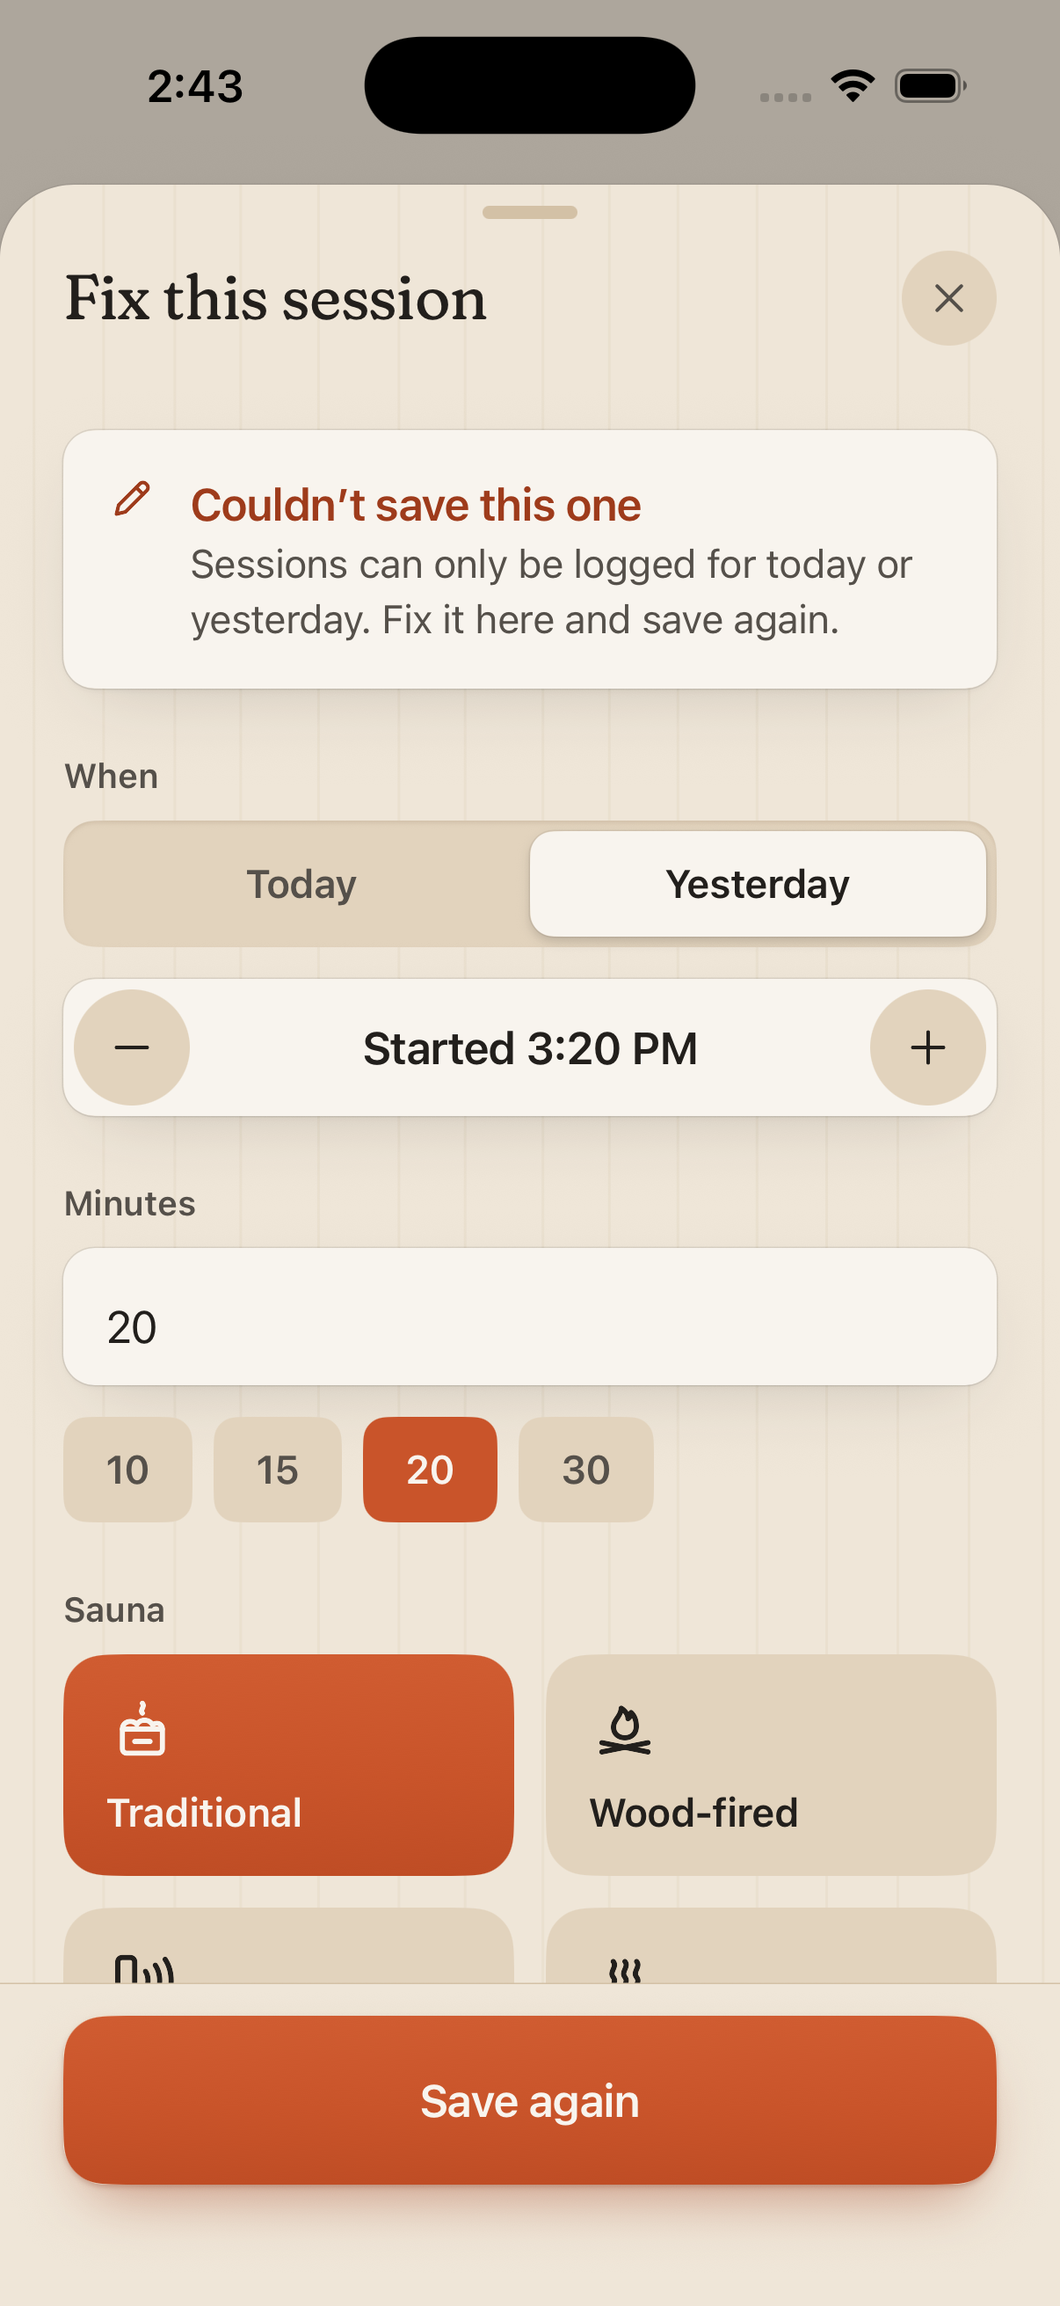
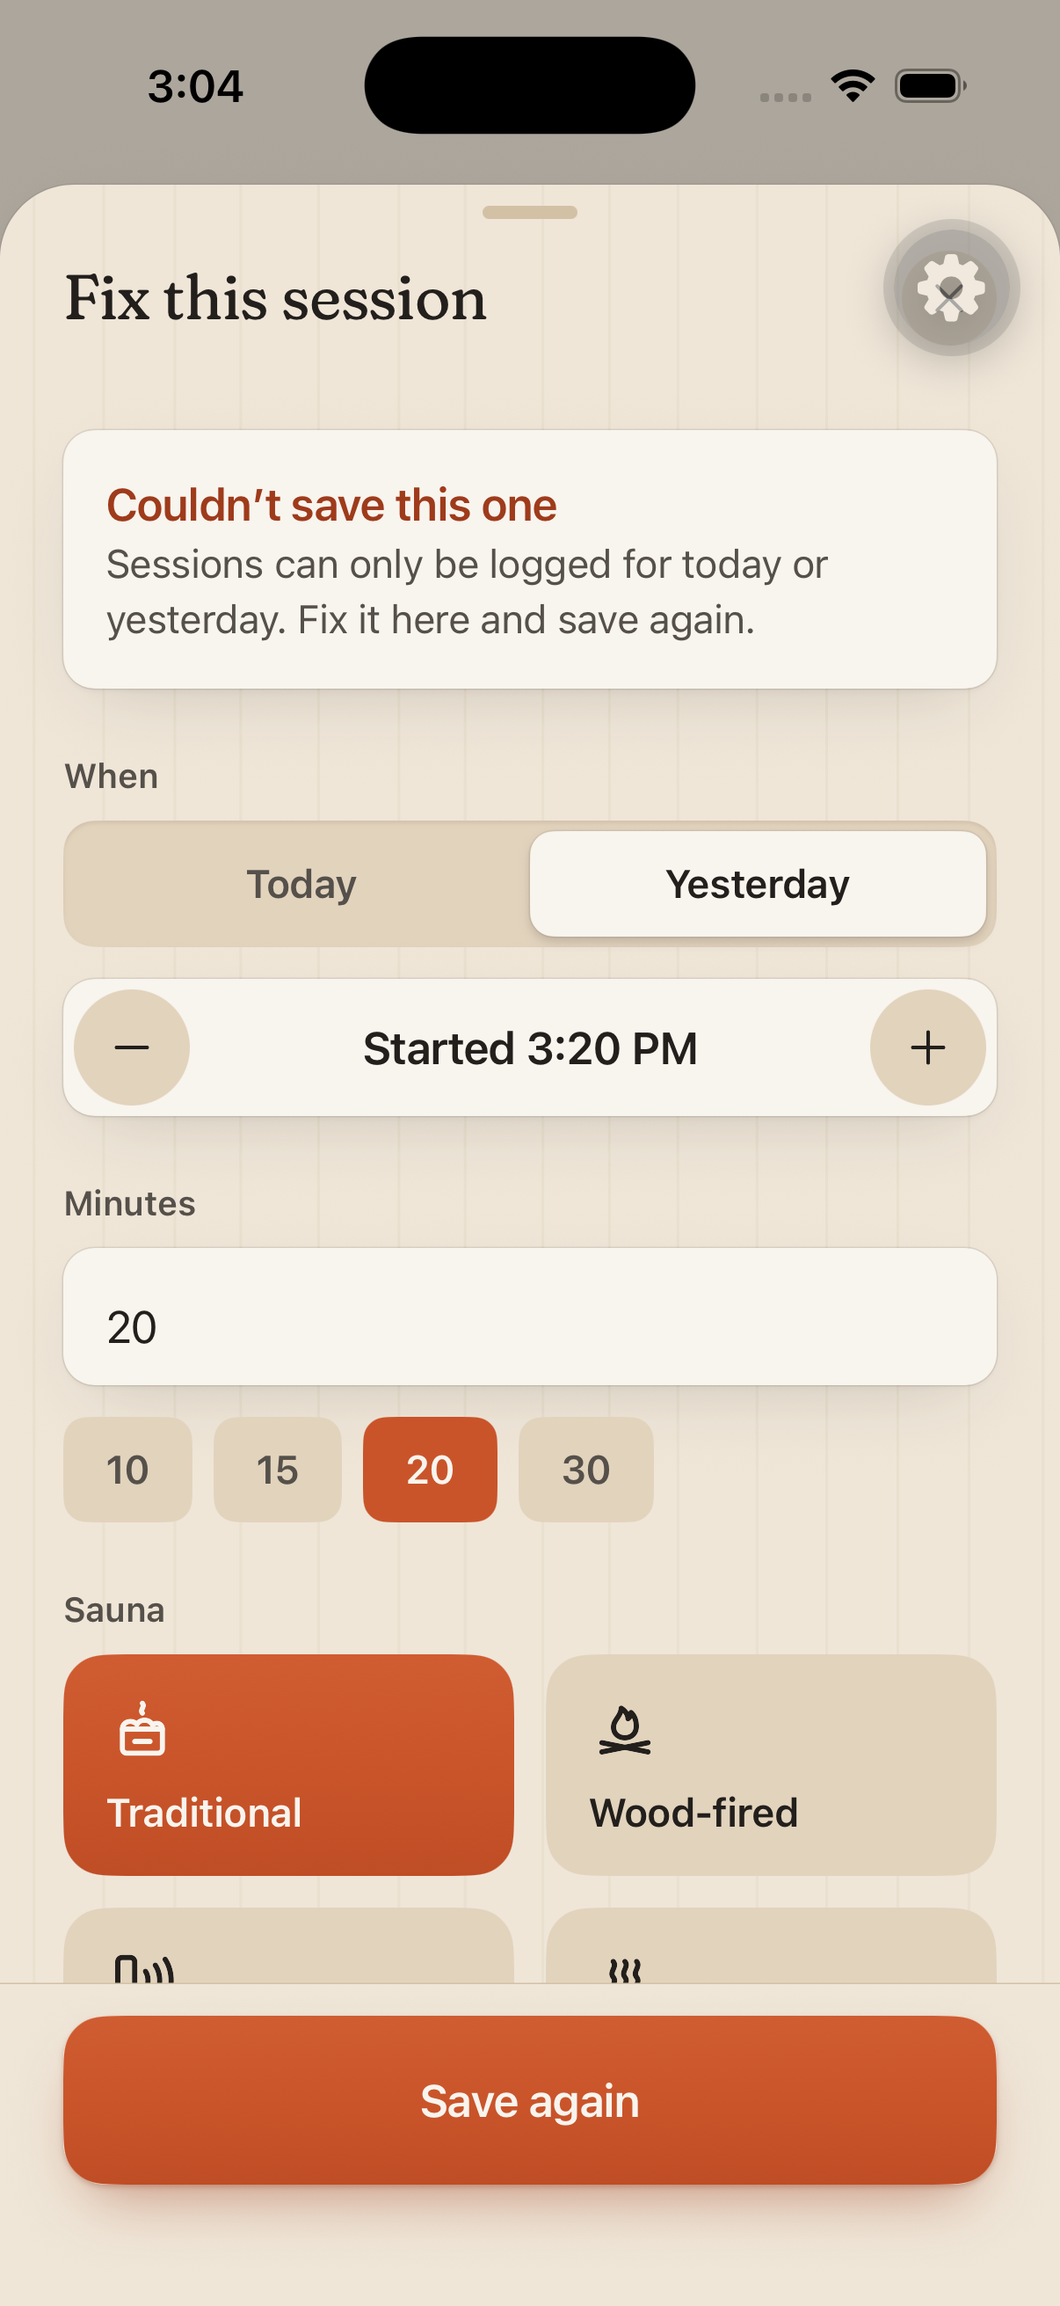
M8: the timer and the log form

Changed region(s): [[0.092, 0.1854, 0.7977, 0.278], [0.8284, 0.0927, 0.9818, 0.1545], [0.1534, 0.0309, 0.2454, 0.0618]]

diff --git a/src/theme/__tests__/theme.test.ts b/src/theme/__tests__/theme.test.ts
@@ -38,6 +38,14 @@ describe('motion', () => {
     expect(t).toBeGreaterThan(120);
     expect(t).toBeLessThan(300);
   });
+
+  it('times the overdamped door spring to when it is within 1% of the screen', () => {
+    // springs.morph is overdamped (damping 26 on stiffness 150): the old closed
+    // form said 307 ms, half the real arrival.
+    const t = springTouchdownMs(springs.morph);
+    expect(t).toBeGreaterThan(550);
+    expect(t).toBeLessThan(700);
+  });
 });
 
 describe('the moment summary', () => {

diff --git a/docs/saunafam/PROGRESS.md b/docs/saunafam/PROGRESS.md
@@ -122,6 +122,7 @@ Today, Week, Feed and Me rendered with no console errors.
 - `App.tsx` still says "This build can't reach Arro" (M12).
 | M6 | done (branch `saunafam/design`) | `design/brand/brand-sheet.png`, `design/screenshots/saunafam/design-sheet-1.png` to `-6.png` and `design-sheet-room.png`, `node scripts/check-contrast.mjs`, `src/theme/__tests__/theme.test.ts` | Löyly tokens, type, motion, haptics, components, Design sheet. See `docs/saunafam/DESIGN-SYSTEM.md` and M6/M7 notes below |
 | M7 | done (branch `saunafam/design`) | `design/brand/icon-explorations.png`, `design/brand/icon-sizes.png`, `design/recordings/saunafam/splash-cold.mov`, `design/screenshots/saunafam/splash-1.png` to `-3.png`, `splash-reduce-motion.mov` | Icon, wordmark, asset pipeline, native splash, AnimatedSplash |
+| M8 | done (branch `saunafam/timer`) | `design/screenshots/saunafam/timer-*.png`, `log-form*.png`; `design/recordings/saunafam/timer-start.mov`, `timer-finish.mov`, `timer-loyly.mov`, `timer-round.mov`, `timer-reduce-motion.mov`, `timer-background.mov`; `src/state/__tests__/logForm.test.ts`, `timerRoom.test.ts`, `sessionPhoto.test.ts` | Timer room ("the door closes"), log sheet, StartSessionButton, TimerBar. See M8 below |
 
 ## M0 baseline (untouched main, b68cd61)
 
@@ -600,3 +601,114 @@ Unverified or open:
   screen that uses them.
 - The tinted icon is a grayscale guess at Apple's guidance; it wasn't seen in
   iOS's tinted home screen mode.
+
+## M8: the timer and the log form
+
+Built on branch `saunafam/timer` (worktree `/tmp/luna-arro/wt-timer`).
+
+**Checks:** typecheck clean; Jest 17 suites, 235 tests (logForm 19, timerRoom
+8, sessionPhoto 3, theme 8 with the new overdamped spring test); lint clean in
+every file M8 touched; `check-design` clean in them; `check-contrast` 32 of 32.
+
+**What's in it**
+- `src/screens/TimerScreen.tsx`: the room. The door morphs on `springs.morph`
+  from the frame it was opened from (the Start button, ember; the timer bar,
+  char), ember crossfading to char over 800 ms, the glow rising over 1.4 s, the
+  medium haptic at the spring's touchdown (616 ms). Numerals (FixedDigits),
+  caps lines, the dotted ember arc (`TimerArc`), "Time to cool off at 7:27 PM",
+  glow-breathe and a warmer step every 5 minutes, a light tick and a VoiceOver
+  line at each 5-minute mark, the target and type panel (tap the line under the
+  numerals), Throw löyly (`LoylyBurst`), Add a round with the lake tint, Done,
+  Cancel behind a designed confirm, the 3-hour prompt, and a "Back to Today"
+  mark top left (the timer keeps running).
+- `src/screens/LogSessionScreen.tsx`: `LogSessionSheet`, a designed sheet used
+  by the `LogSession` route and, in place, by the timer. Logic in
+  `src/state/logForm.ts` (prefill from the timer or a draft, validation, °F to
+  °C, the start time). Photos in `src/state/sessionPhoto.ts`.
+- `src/components/StartSessionButton.tsx`, `TimerBar.tsx` for M9; the stand-in
+  Today uses both. Other new components are listed in DESIGN-SYSTEM.md.
+- Routes: `Timer` (`{ origin?, started?, startAt? }`) and `LogSession` are
+  transparent modals with no stack animation; each draws its own entrance.
+- Dev only: `src/dev/DevCapture.tsx` drives captures from simctl links or a
+  local command queue (`EXPO_PUBLIC_DEV_CAPTURE`), and `app.devSetTimer`. Both
+  do nothing in a release build. `dev/onboard` skips onboarding with no server.
+
+**Fixed from the recordings**
+- The door started about 700 ms after the tap and skipped its first frames: the
+  room's first draw (a full-screen SVG blur for the steam, and blurred halos on
+  the arc) blocked the main thread. The steam is now a PNG drawn ahead of time
+  (`scripts/render-room-steam.mjs`), the halos are radial gradients, and the
+  door waits for the route's `transitionEnd` before moving. Tap to motion is
+  now about 130 ms in a dev build.
+- Starting the timer re-rendered Today under the door (the bar appeared, the
+  button relabeled, the door's frame no longer matched). The timer now starts
+  from the tap's time but is committed when the door lands.
+- The room's contents faded in while the door was still small, over Today.
+  They now wait for the door to land.
+- The status bar turned light only after the door landed, so it sat dark on
+  char for a moment, and changing it re-rendered the room mid-move. It's set
+  imperatively (`StatusBar.setStyle`) when the door covers the top, and back
+  when the room lightens.
+- An overdamped spring stopped a hair short and left a sliver of Today at the
+  edge: the door snaps to the exact frame when its spring rests.
+- Done to sheet stalled for about 190 ms while the sheet mounted, so the room's
+  fade jumped. The sheet now mounts parked below the screen while the glow
+  cools, and its lower fields mount after it's up.
+- The room lightened faster than the sheet rose (settle curve); it now uses
+  the even `leave` ease.
+- Throw löyly's drawn wisps read as thin lines, then as gray ribbons. They're
+  now a blurred wisp image that rises, billows and fades.
+- The phase words ("Cooling off", "Back in the heat") snapped; they fade in.
+- While cooling off the numerals didn't dim (an animated opacity overrode the
+  style); they dim to 72% now.
+- At the largest Dynamic Type size the room overlapped itself and the löyly
+  label clipped. Large text gets a scrolling room with no arc, and
+  `SolidButton` grows instead of clipping.
+
+**Decisions**
+- D8.1 Done finishes the timer at once (clears it, cancels its notifications)
+  and the log sheet opens over the lightening room. Closing that sheet asks
+  "Throw this session away?", since nothing else has the time.
+- D8.2 The sheet is birch, not steam, so the steam wells and tiles read on it.
+- D8.3 "Log it" on the 3-hour prompt finishes the timer and asks for the real
+  minutes (the field starts empty with a hint), keeping the start time.
+- D8.4 The 5-minute tick fires only when the mark goes up by one while you're
+  watching; coming back from the background just catches up, silently.
+- D8.5 Saving is optimistic: the sheet closes at once and `haptics.save` fires
+  as it finishes closing. "Jo already logged this one" arrives afterwards as
+  `app.notice` (new `app.showNotice`), for Today to show.
+- D8.6 The löyly haptic fires one stagger (90 ms) after the tap, as the first
+  wisp shows.
+- D8.7 The 4:3 crop is done in `sessionPhoto.ts`: SDK 57's picker crops only
+  to a square on iOS (`aspect` is Android only). Note `photos.ts` still passes
+  `aspect: [4, 3]` for workouts, which iOS ignores.
+- D8.8 `app.json` gets a camera permission string ("Saunafam uses the camera
+  only when you take a photo for a session..."). The shared dev client was
+  built before it, so the camera needs the next native build.
+- D8.9 A local-only session (no server) stores its timer too, so the timer
+  survives being killed in a dev build. Prototype preview scenarios still keep
+  theirs in memory.
+- D8.10 "Sat with someone?" lists joined members; invited ones show grayed out with
+  "Hasn't joined yet"; people on a break can be picked. The preview family has
+  only Maya and Jo, so `log-form-shared-3.png` shows three people in the
+  session (Sam, Maya, Jo), not three picked; the 3-person cap is unit tested.
+- D8.11 The numerals stay at the type scale's 96 pt (the mockup is about 91 pt
+  at this width); FixedDigits' even digit boxes make them a little wider.
+- D8.12 Nothing about Plus appears in the timer or the form.
+
+**Not done or not verified**
+- Haptics and VoiceOver announcements can't be felt or heard on the simulator;
+  their timing is in code and tests only. No Perf Monitor reading was taken,
+  and frame timing from `simctl recordVideo` was noisy with three simulators
+  running: the door and the finish show steady 16 to 25 ms frames in the
+  cleaner runs, with occasional 40 ms gaps.
+- The camera was not tried (no camera on the simulator, and no permission
+  string in the current dev client). The library picker was not tried either.
+- `timer-background.mov` is two recordings joined: the 2 minutes in Settings
+  are cut out. Coming back shows iOS's snapshot from leaving (0:04) for a frame
+  before 2:09.
+- Screenshots after the dev client's relaunch show its floating Tools button
+  (dev chrome).
+- `design/screenshots/saunafam/INDEX.md` lines for these screens are left for
+  M9, which owns that file.
+

diff --git a/design/copy/app-copy.md b/design/copy/app-copy.md
@@ -142,30 +142,74 @@ Section 3, "Today".
 
 ## Timer
 
-Sections 2 ("Timer: the door closes") and 3 ("Timer").
+Sections 2 ("Timer: the door closes") and 3 ("Timer"). Built in M8
+(`src/screens/TimerScreen.tsx`, words in `src/state/timerRoom.ts`).
 
-- Under the numerals: "TRADITIONAL · 15 MIN"
-- **Throw löyly**
-- **Add a round**
-- While paused: "Cooling off"
-- **Done**
-- **Cancel** (always behind a confirm). _to write: the confirm_
-- Target chips: 10, 15, 20, 30 minutes
-- Back after 3 hours: "Still going? It's been 3 hours", with **Log it**, **Keep going**, **Discard**
-- Sign out with a timer running: a confirm. _to write_
+On Today (M8 components that M9 places):
+
+- **Start a session** (hint for VoiceOver: "Starts the sauna timer")
+- With a timer running, the same button: **Back to the timer** ("Opens the timer that's running")
+- The slim bar: "In the heat · 12:04", "Cooling off · 12:04" (VoiceOver: "In the heat, 12 minutes 4 seconds", hint "Opens the timer")
+
+In the room:
+
+- Top line, small caps: "IN THE HEAT · ROUND 1", while cooling off "COOLING OFF · ROUND 1 DONE"
+- Under the numerals, small caps, tappable: "TRADITIONAL · 15 MIN" (VoiceOver: "Traditional · 15 min. Change the target or sauna type")
+- The numerals for VoiceOver: "12 minutes 40 seconds in the heat", while cooling off "..., paused while you cool off"
+- Every 5 minutes, VoiceOver says: "5 minutes", "10 minutes", and so on
+- Above Throw löyly: "Time to cool off at 7:27 PM"; past the target "That's your 15 minutes. Cool off when you're ready."; cooling off "Cooling off. Go back in when you're ready."
+- **Throw löyly** (hint: "A burst of steam. Nothing is saved.")
+- **Add a round** (hint: "Pauses the heat clock while you cool off"); while cooling off **Back in the heat** ("Starts the next round")
+- **Done** (hint: "Opens the log form, filled in")
+- **Cancel**
+- Top left, an icon only: "Back to Today" (hint: "The timer keeps running")
+- The target and type panel: small caps "TARGET" with **10 min**, **15 min**, **20 min**, **30 min**; "SAUNA" with the seven types; **Done**
+- Cancel confirm: "Cancel this session?" / "The timer stops and nothing's saved." / **Keep going**, **Cancel session**
+- Back after 3 hours: "Still going? It's been 3 hours" / "Log it with your real time, keep the timer going, or let it go." / **Log it**, **Keep going**, **Discard**
+- Sign out with a timer running: a confirm. _to write (M10, Settings)_
 
 ## Log session
 
-Section 3, "Log session form".
+Section 3, "Log session form". Built in M8 (`src/screens/LogSessionScreen.tsx`,
+checks in `src/state/logForm.ts`).
 
-- Fields: When (Today, Yesterday, start time), Minutes (chips 10, 15, 20, 30), Sauna type, Temperature, Humidity, Rounds, Cold plunge, Place, With, Photo, Note
-- Sauna types: "Traditional", "Wood-fired", "Infrared", "Steam room", "Smoke", "Banya", "Other"
-- Place examples: "Home", "The Y"
-- With: "Sat with someone?"
-- Under a short session: "Sessions under 10 minutes are saved but don't count toward the week."
-- Duplicate in a shared session: "Jo already logged this one"
-- Refused by the server: "Couldn't save this one. Tap to fix it"
-- _to write: field labels, placeholders, save button, unit labels_
+- Titles: "Log a session"; from the timer "Log this session"; fixing a refused draft "Fix this session"
+- **Close** (the round x, for VoiceOver)
+- "When": **Today**, **Yesterday**; the start time "Started 6:45 PM" with a minus and a plus (VoiceOver: "Start time, Started at 6:45 PM", adjustable)
+- When yesterday has closed: "Yesterday closed at 5:00 PM."
+- "Minutes", placeholder "15"; chips **10**, **15**, **20**, **30**
+- From the 3-hour prompt: placeholder "How long were you in?", hint "The timer ran for hours. Put in your real time."
+- Under a short session: "Sessions under 10 minutes are saved but don't count toward the week." (the family minimum fills in the number)
+- "Sauna", tiles: "Traditional", "Wood-fired", "Infrared", "Steam room", "Smoke", "Banya", "Other"
+- "Temperature, °F" (or "Temperature, °C"), placeholder "185" (or "85"); "Humidity, %", placeholder "20"
+- "Rounds", a minus and a plus (VoiceOver: "2 rounds")
+- "Cold plunge" with a switch; when on, "Minutes in the cold", placeholder "2"
+- "Place", placeholder "Home, The Y"; chips of the family's recent places
+- "Sat with someone?"; under the people "They get a note and can take themselves off it."; when 3 are picked "That's 4 of you, the most for one session."
+- People who can't be picked or are away: "Hasn't joined yet", "On a break"
+- "Photo": **Take a photo**, **Choose one**; with a photo **Replace**, **Remove**
+- Photo access off: "Photos are off for Saunafam" / "The camera is off for Saunafam" / "You can turn them on in Settings." / **Not now**, **Open Settings**
+- "Note", placeholder "How was it?"; near the limit "12 left"
+- **Save session**; fixing a draft **Save again**, and **Throw this one away**
+- Refused draft, at the top of the form: "Couldn't save this one" / the server's reason as a sentence, then "Fix it here and save again."
+- Draft too old: "Sessions can only be logged for today or yesterday. Pick one."
+- Closing with something filled in: "Close without saving?" / "What you've put in here won't be kept." / **Keep it**, **Close**
+- Closing a timer's session: "Throw this session away?" / "The timer's done, so it won't be saved anywhere else." / **Keep it**, **Throw it away**
+- After saving, when someone was skipped (shown on Today): "Jo already logged this one", "Maya and Jo already logged this one"
+- Refused by the server (on Today, from the data layer): "Couldn't save this one. Tap to fix it"
+
+Checks, inline under the field, in coal:
+
+- "How many minutes were you in?"
+- "Minutes take a whole number, 1 or more."
+- "Sessions go up to 240 minutes."
+- "That's later than now. Pick an earlier time."
+- "Yesterday closed at 5:00 PM. This one can go on today."
+- "Somewhere from 86 to 266°F." (or "30 to 130°C")
+- "Somewhere from 0 to 100%."
+- "Up to 30 minutes."
+- "Up to 60 characters." (place), "Up to 140 characters." (note)
+- "Up to 3 people with you."
 
 ## Session detail
 

diff --git a/docs/saunafam/DESIGN-SYSTEM.md b/docs/saunafam/DESIGN-SYSTEM.md
@@ -200,6 +200,49 @@ All in `src/components/`. Each file's header comment has the details.
 | `brand/StoneMark`, `brand/Wordmark` | `width`; `fontSize`, `spacing?` | The icon's stone and the outlined "saunafam". Use the wordmark on Welcome. |
 | `AnimatedSplash` | `ready`, `returning`, `onDone` | Wired in `App.tsx`. Don't mount it elsewhere. |
 
+### Added in M8 (timer and log form)
+
+| Component | Props | Notes |
+|---|---|---|
+| `StartSessionButton` | `onStart?: () => void`, `style?` | Today's 64 pt ember "Start a session". It measures itself and opens the `Timer` route with its frame, so the button grows into the dark room. With a timer running it reads "Back to the timer" and reopens it. `onStart` runs before the room opens. The timer itself starts from the tap and is committed when the door lands, so Today never redraws under the door. |
+| `TimerBar` | `style?` | The slim char bar for the top of Today: "In the heat · 12:04" or "Cooling off · 12:04", a small breathing coal beside it (lake while cooling). Renders nothing without a timer, so Today can always place it. Tapping it reopens the timer, the door growing out of the bar. Ticks once a second only while visible. |
+| `TimerArc` | `radius`, `lit`, `dim?` | The timer's dotted ember arc: 61 dots over 300 degrees, a bigger one every 20th, lit dots with a soft halo. `lit` from `litDots()` in `src/state/timerRoom.ts`. The newest dot ignites as it lights. |
+| `LoylyBurst` | `burstKey`, `width`, `height` | Throw löyly: soft blurred wisps (`assets/timer/loyly-wisp.png`) rise, spread and fade. Bump `burstKey` to throw again. |
+| `ConfirmDialog` | `visible`, `title`, `body?`, `actions: {label, onPress, kind: 'primary' \| 'secondary' \| 'quiet', dismiss?}[]`, `tone?: 'light' \| 'dark'` | The designed confirm (not the system alert). `dark` for the timer room. Tapping outside runs the action marked `dismiss`. |
+| `OptionChip` | `label`, `selected?`, `onPress`, `tone?: 'light' \| 'dark'`, `disabled?` | A filled one-tap choice (radius 9, never a pill): minute chips, recent places, the timer's target. Picked is ember. |
+| `Segmented` | `options: {value, label, disabled?}[]`, `value`, `onChange`, `accessibilityLabel` | An aspen tray with a steam thumb that springs to the pick ("Today", "Yesterday"). |
+| `Stepper` | `label`, `display`, `spoken?`, `onDecrement`, `onIncrement`, `canDecrement`, `canIncrement` | A value between a minus and a plus (rounds, the start time). One adjustable element for VoiceOver. |
+| `SaunaTypeTile`, `saunaTypeIcon` | `saunaType`, `selected`, `onPress` | The log form's large filled tiles, 2 to a row, with each type's own icon. Picked fills ember. |
+| `useNow(running, everyMs?)` | | A clock that ticks on whole seconds while `running`. Times are always worked out from timestamps; this only says when to redraw. |
+
+`SolidButton` changed in M8: its height is now a minimum and the label can take
+two lines, so it grows instead of clipping at the largest Dynamic Type sizes.
+At normal sizes it looks the same.
+
+`springTouchdownMs` changed in M8: for an overdamped spring (`springs.morph`) it
+steps the spring to within 1% of its target. The old closed form gave 307 ms
+for the door, about half the real 616 ms, so a haptic timed with it would have
+fired early.
+
+New tokens: `alpha.roomPanel`, `alpha.roomScrim`, `alpha.roomChip`,
+`alpha.roomLine` (the room's panels and dialogs); `moments.sheet` (the log
+sheet: rises on the morph spring, leaves in 320 ms, `dismissDrag` 120);
+`moments.roomPanel` (360 ms, a 24 pt rise). `moments.finishCool.room` now eases
+evenly (`leave`) so the room keeps pace with the rising sheet.
+
+Today (M9), as the stand-in uses them:
+
+```tsx
+<TimerBar />
+<StartSessionButton />
+<TextAction label="Log one I already did" onPress={() => navigation.navigate('LogSession')} />
+```
+
+The save haptic fires in the log sheet as it finishes closing. If Today's ember
+dot ignition also fires `haptics.save` at its peak, the two land about 300 ms
+apart; M9 may want only one of them.
+
+
 Icons: tabs `today week feed me`; sauna types `traditional woodFired infrared
 steam smoke banya other`; things `stone stoneFilled slat snowflake heart
 heartFilled ladle gear camera photo droplet thermometer timer bell family
